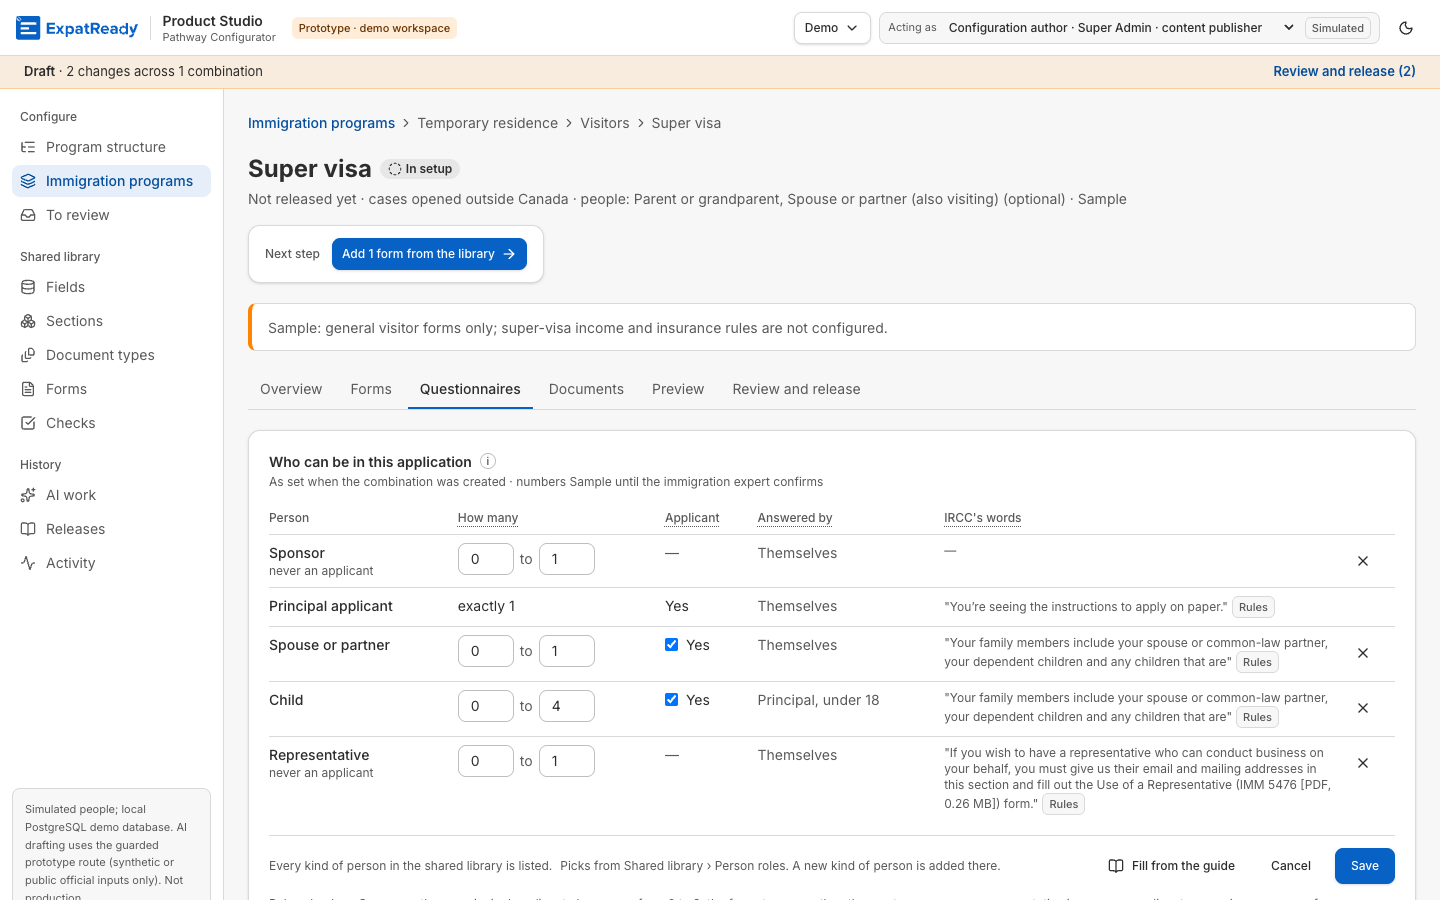
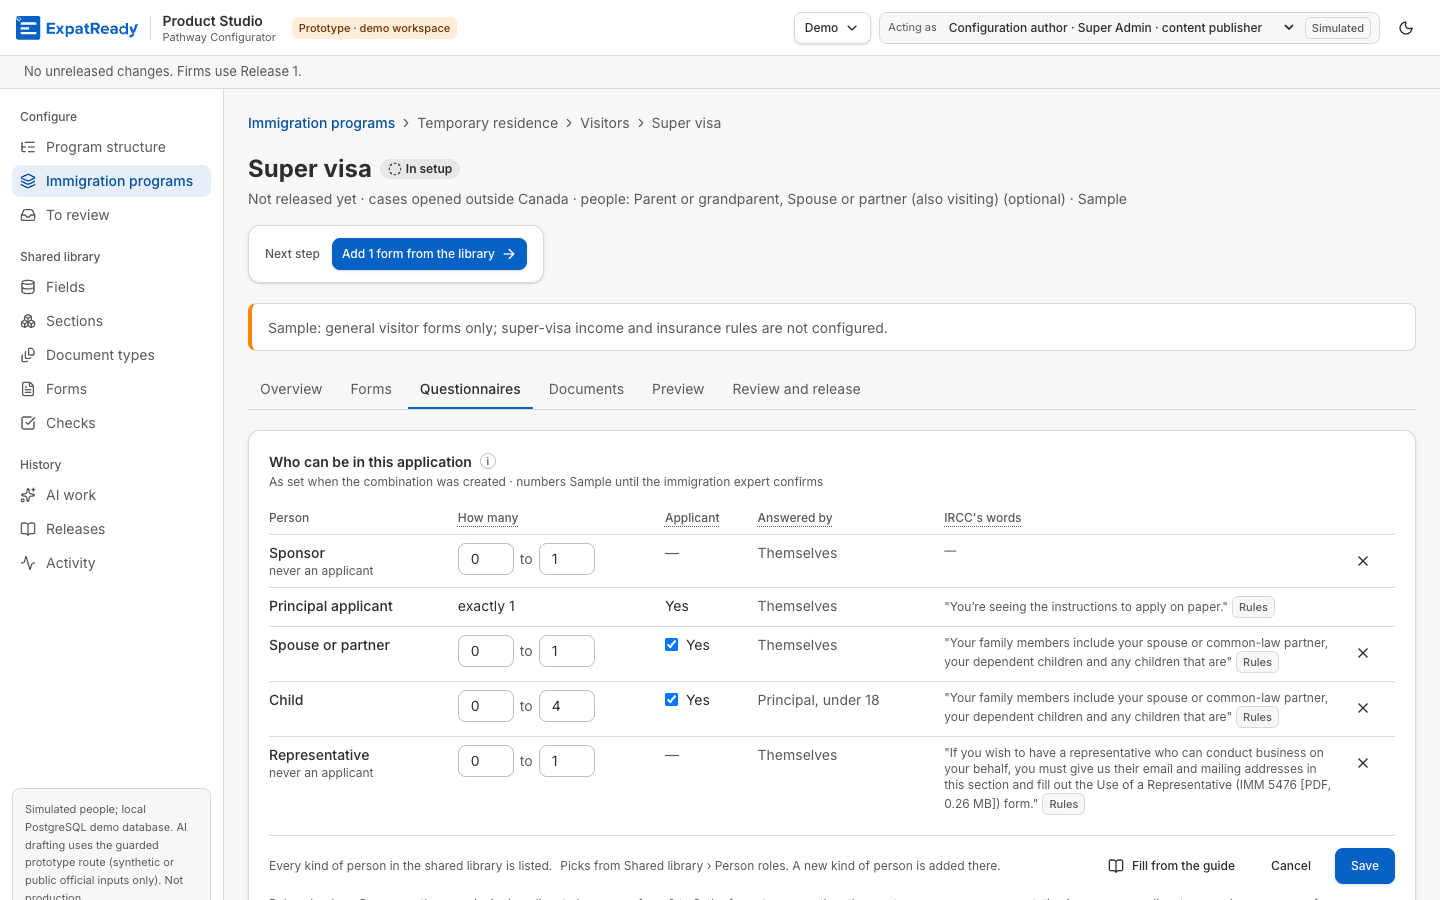
runtime: FIX — Devin Review on PR #71: In the library only when the shown file's own edition is mapped (a newer unmapped edition keeps Draft with AI); AI now follows the server's plan (live.approved, live.why), the API stays the guard; leadcheck browser 21/21, live approval browser 5/5

Changed region(s): [[0.0, 0.0622, 1.0, 0.1244]]

diff --git a/ai-workers/problem-1-pathway-setup-and-form-filling/prototype/studio/web/src/pages/workspace/questionnaires.tsx b/ai-workers/problem-1-pathway-setup-and-form-filling/prototype/studio/web/src/pages/workspace/questionnaires.tsx
@@ -137,15 +137,17 @@ type FillMode = "rules" | "replay" | "live";
 const FILL_MODES: [FillMode, string, string][] = [
   ["rules", "Rules only (US$0)", "No AI: rules find the guide's sentences that name each person. How many is a Sample default you check."],
   ["replay", "Use saved AI answers (US$0)", "Replays what AI answered for this exact guide before. Until a live trial records one, it says there is none."],
-  ["live", "AI now (not approved yet)", "Two AI rounds read the guide. Waits for the founder's Go for a live trial (P-110); rules only or saved AI answers meanwhile."],
+  ["live", "AI now (cost shown below)", "Two AI rounds read the guide; only lines both agree on, with their sentence in the guide, are proposed."],
 ];
-/** Lead check L2: AI now is greyed until the founder approves a live trial (the API refuses it too). */
-const LIVE_OFF = true;
 
 /** "Fill from the guide" (slice 3, P-121): the plan and its cost first, then the proposal with IRCC's words. */
 function FillFromGuide({ id, onClose, onUse }: { id: string; onClose: () => void; onUse: (p: PeopleProposal) => void }) {
   const [mode, setMode] = React.useState<FillMode>("rules");
   const plan = useQuery<PeoplePlan, ApiError>({ queryKey: ["people-plan", id, mode], queryFn: () => api<PeoplePlan>(`/combinations/${id}/people/propose/plan`, { method: "POST", json: { mode } }), retry: false });
+  // Lead check L2 (Devin Review, PR #71): whether AI now may run is the server's answer (the rules plan carries it); the
+  // choice stays greyed until that answer says approved, and the API refuses a live run either way.
+  const rules = useQuery<PeoplePlan, ApiError>({ queryKey: ["people-plan", id, "rules"], queryFn: () => api<PeoplePlan>(`/combinations/${id}/people/propose/plan`, { method: "POST", json: { mode: "rules" } }), retry: false });
+  const live = rules.data?.live ?? { approved: false, why: null };
   const [result, setResult] = React.useState<PeopleProposal | null>(null);
   const [busy, setBusy] = React.useState(false), [error, setError] = React.useState<string | null>(null);
   const run = async () => {
@@ -169,7 +171,7 @@ function FillFromGuide({ id, onClose, onUse }: { id: string; onClose: () => void
       ) : (
         <div className="space-y-4" data-people-plan>
           <fieldset className="space-y-2"><legend className="text-xs font-medium">How to fill it</legend>
-            {FILL_MODES.map(([m, label, hint]) => <label key={m} className={`flex gap-2 text-sm${m === "live" && LIVE_OFF ? " text-text-muted" : ""}`} data-fill-mode={m}><input type="radio" name="fill-mode" checked={mode === m} onChange={() => setMode(m)} disabled={m === "live" && LIVE_OFF} className="mt-1" /><span><span className="font-medium">{label}</span><br /><span className="text-xs text-text-muted">{hint}</span></span></label>)}
+            {FILL_MODES.map(([m, label, hint]) => { const off = m === "live" && !live.approved; return <label key={m} className={`flex gap-2 text-sm${off ? " text-text-muted" : ""}`} data-fill-mode={m}><input type="radio" name="fill-mode" checked={mode === m} onChange={() => setMode(m)} disabled={off} className="mt-1" /><span><span className="font-medium">{off ? "AI now (not approved yet)" : label}</span><br /><span className="text-xs text-text-muted">{off ? live.why ?? "Checking whether AI now is approved…" : hint}</span></span></label>; })}
           </fieldset>
           {plan.isPending ? <p className="text-sm text-text-muted">Working out the steps and their cost…</p> : plan.error ? <Notice tone="warn" title="It cannot be filled yet">{plan.error.message}</Notice> : plan.data ? (
             <div className="rounded-lg border border-border p-3 text-sm">

diff --git a/ai-workers/problem-1-pathway-setup-and-form-filling/prototype/studio/web/src/pages/workspace/forms.tsx b/ai-workers/problem-1-pathway-setup-and-form-filling/prototype/studio/web/src/pages/workspace/forms.tsx
@@ -100,7 +100,7 @@ export function FormsTab({ id, lines, filing, filingDetail, problems, removed = 
             <td className="max-w-56 text-xs"><OnlyIfCell l={l} /></td>
             <td className="text-sm">{l.document ? <span className="text-text-muted">—</span> : <><ChannelCell id={id} line={{ code: l.code, channel: l.channel as Channel, channelWords: l.channelWords, signature: l.signature, document: l.document } as ChannelLine} canAuthor={canAuthor} />{l.channel === "ONLINE" ? <p className="text-xs text-text-muted" data-online-words>Answer sheet in portal order (P-113)</p> : null}</>}</td>
             <td className="text-xs">{l.document ? "—" : l.signedBy ? l.signedByLabel : <span className="text-text-muted">Not set</span>}</td>
-            <td className="text-xs"><span className="block">{l.edition ?? <span className="text-text-muted">No edition read yet</span>}{l.document ? null : <span className="text-text-muted"> · {l.boxes} form fields matched</span>}</span>{l.document ? null : <LineReading combo={combo} l={l} />}</td>
+            <td className="text-xs"><span className="block">{l.edition ?? <span className="text-text-muted">No edition read yet</span>}{l.document ? null : <span className="text-text-muted"> · {l.boxes} form fields matched</span>}</span>{l.document ? null : <LineReading combo={combo} l={l} fromLibrary={fromLibrary} />}</td>
             <td className="whitespace-nowrap">{canAuthor ? <><Button size="sm" variant="ghost" aria-label={`Change ${l.code}`} onClick={() => setOpen(l)}><Pencil /> Change</Button><LineMenu id={id} l={l} onRedo={() => redo([l.code])} onRemove={() => setRemoving(l)} /></> : null}</td>
           </tr>
         ))}
@@ -123,12 +123,14 @@ export function FormsTab({ id, lines, filing, filingDetail, problems, removed = 
 }
 
 /** Lead check L11: a set-up line whose form fields the library already matched has no AI step left; a line still being
- *  read or drafted keeps its step. */
-function LineReading({ combo, l }: { combo: Combo; l: WorkspaceFormLine }) {
+ *  read or drafted keeps its step. Devin Review (PR #71): "matched" is the shown file's own edition (the server's
+ *  fromLibrary: its edition has a field map), never the line's count, so a newer unmapped edition keeps Draft with AI. */
+function LineReading({ combo, l, fromLibrary }: { combo: Combo; l: WorkspaceFormLine; fromLibrary: string[] }) {
   const a = attachmentFor(combo, l.code);
+  const mapped = a ? a.status === "IN_LIBRARY" || fromLibrary.includes(a.id) : l.boxes > 0;
   // The last step and when it ran stay (QA-17); only the next step, which would be AI, goes.
   const last = a ? combo.jobs.find((j) => j.attachmentId === a.id) : undefined;
-  if (l.boxes > 0 && (!a || ["RECOGNISED", "READ", "IN_LIBRARY"].includes(a.status))) return <span className="mt-1 inline-flex flex-col items-start gap-1" data-line-matched><Pill tone="ok">In the library</Pill>{last ? <span className="text-text-muted">{last.kind === "field_map" ? "AI draft" : "Read"} {fmtWhen(last.startedAt)}</span> : null}</span>;
+  if (mapped && (!a || ["RECOGNISED", "READ", "IN_LIBRARY"].includes(a.status))) return <span className="mt-1 inline-flex flex-col items-start gap-1" data-line-matched><Pill tone="ok">In the library</Pill>{last ? <span className="text-text-muted">{last.kind === "field_map" ? "AI draft" : "Read"} {fmtWhen(last.startedAt)}</span> : null}</span>;
   return <ReadingCell d={combo} a={a} />;
 }
 

diff --git a/ai-workers/problem-1-pathway-setup-and-form-filling/prototype/studio/contracts/workspace.ts b/ai-workers/problem-1-pathway-setup-and-form-filling/prototype/studio/contracts/workspace.ts
@@ -153,7 +153,10 @@ export type RemovedForm = { code: string; title: string; at: string };
 /** Slice 3: "Who can be in this application" filled from the combination's guide (api/src/people-ai.ts). The plan says
  *  the steps and the most it can cost first; the proposal is never saved by itself (the person accepts it and saves). */
 export const ProposePeopleBody = z.object({ mode: z.enum(["rules", "replay", "live"], { error: "Choose how to fill it." }), planSha256: z.string().regex(/^[0-9a-f]{64}$/).optional() });
-export type PeoplePlan = { mode: "rules" | "replay" | "live"; guide: { code: string; title: string; url: string }; steps: { n: number; label: string; uses_ai: boolean }[]; totals: { worst_usd: number; remaining_usd: number }; note: string; plan_sha256: string };
+export type PeoplePlan = { mode: "rules" | "replay" | "live"; guide: { code: string; title: string; url: string }; steps: { n: number; label: string; uses_ai: boolean }[]; totals: { worst_usd: number; remaining_usd: number }; note: string; plan_sha256: string;
+  /** Whether AI now may run (the founder approved a live trial) and, when not, why: the page greys the choice from this;
+   *  the API refuses a live run either way (Lead check L2, Devin Review on PR #71). */
+  live: { approved: boolean; why: string | null } };
 export type ProposedPerson = { role: string; label: string; min: number; max: number; applies: boolean; quote: string; why: string | null; agreed: boolean };
 export type PeopleProposal = {
   mode: PeoplePlan["mode"]; guide: PeoplePlan["guide"]; people: ProposedPerson[];

diff --git a/ai-workers/problem-1-pathway-setup-and-form-filling/prototype/studio/api/src/people-ai.ts b/ai-workers/problem-1-pathway-setup-and-form-filling/prototype/studio/api/src/people-ai.ts
@@ -95,7 +95,7 @@ export class PeopleFromGuide {
     const steps = b.data.mode === "rules" ? STEPS_RULES : STEPS_AI;
     const note = b.data.mode === "replay" ? "Uses the answers AI gave for this exact guide and prompt before (US$0); with none saved yet, it says so and nothing changes." : b.data.mode === "rules" ? "No AI: rules find the sentences that name each person. How many is a Sample default you check." : "Two AI rounds read the guide; only lines both agree on, with their sentence in the guide, are proposed.";
     const ledger = this.sources.ledger();
-    return { mode: b.data.mode, guide: { code: g.code, title: g.title, url: g.url }, steps, totals: { worst_usd: worst, remaining_usd: ledger.remaining_usd }, note, plan_sha256: sha(JSON.stringify({ combinationId, mode: b.data.mode, guide: g.input?.sha256 ?? sha(g.text), worst })) };
+    return { mode: b.data.mode, guide: { code: g.code, title: g.title, url: g.url }, steps, totals: { worst_usd: worst, remaining_usd: ledger.remaining_usd }, note, live: { approved: LIVE_APPROVED(), why: LIVE_APPROVED() ? null : LIVE_WAITING }, plan_sha256: sha(JSON.stringify({ combinationId, mode: b.data.mode, guide: g.input?.sha256 ?? sha(g.text), worst })) };
   }
 
   /** Runs the plan and returns a proposal for the editor (never saved here). */
